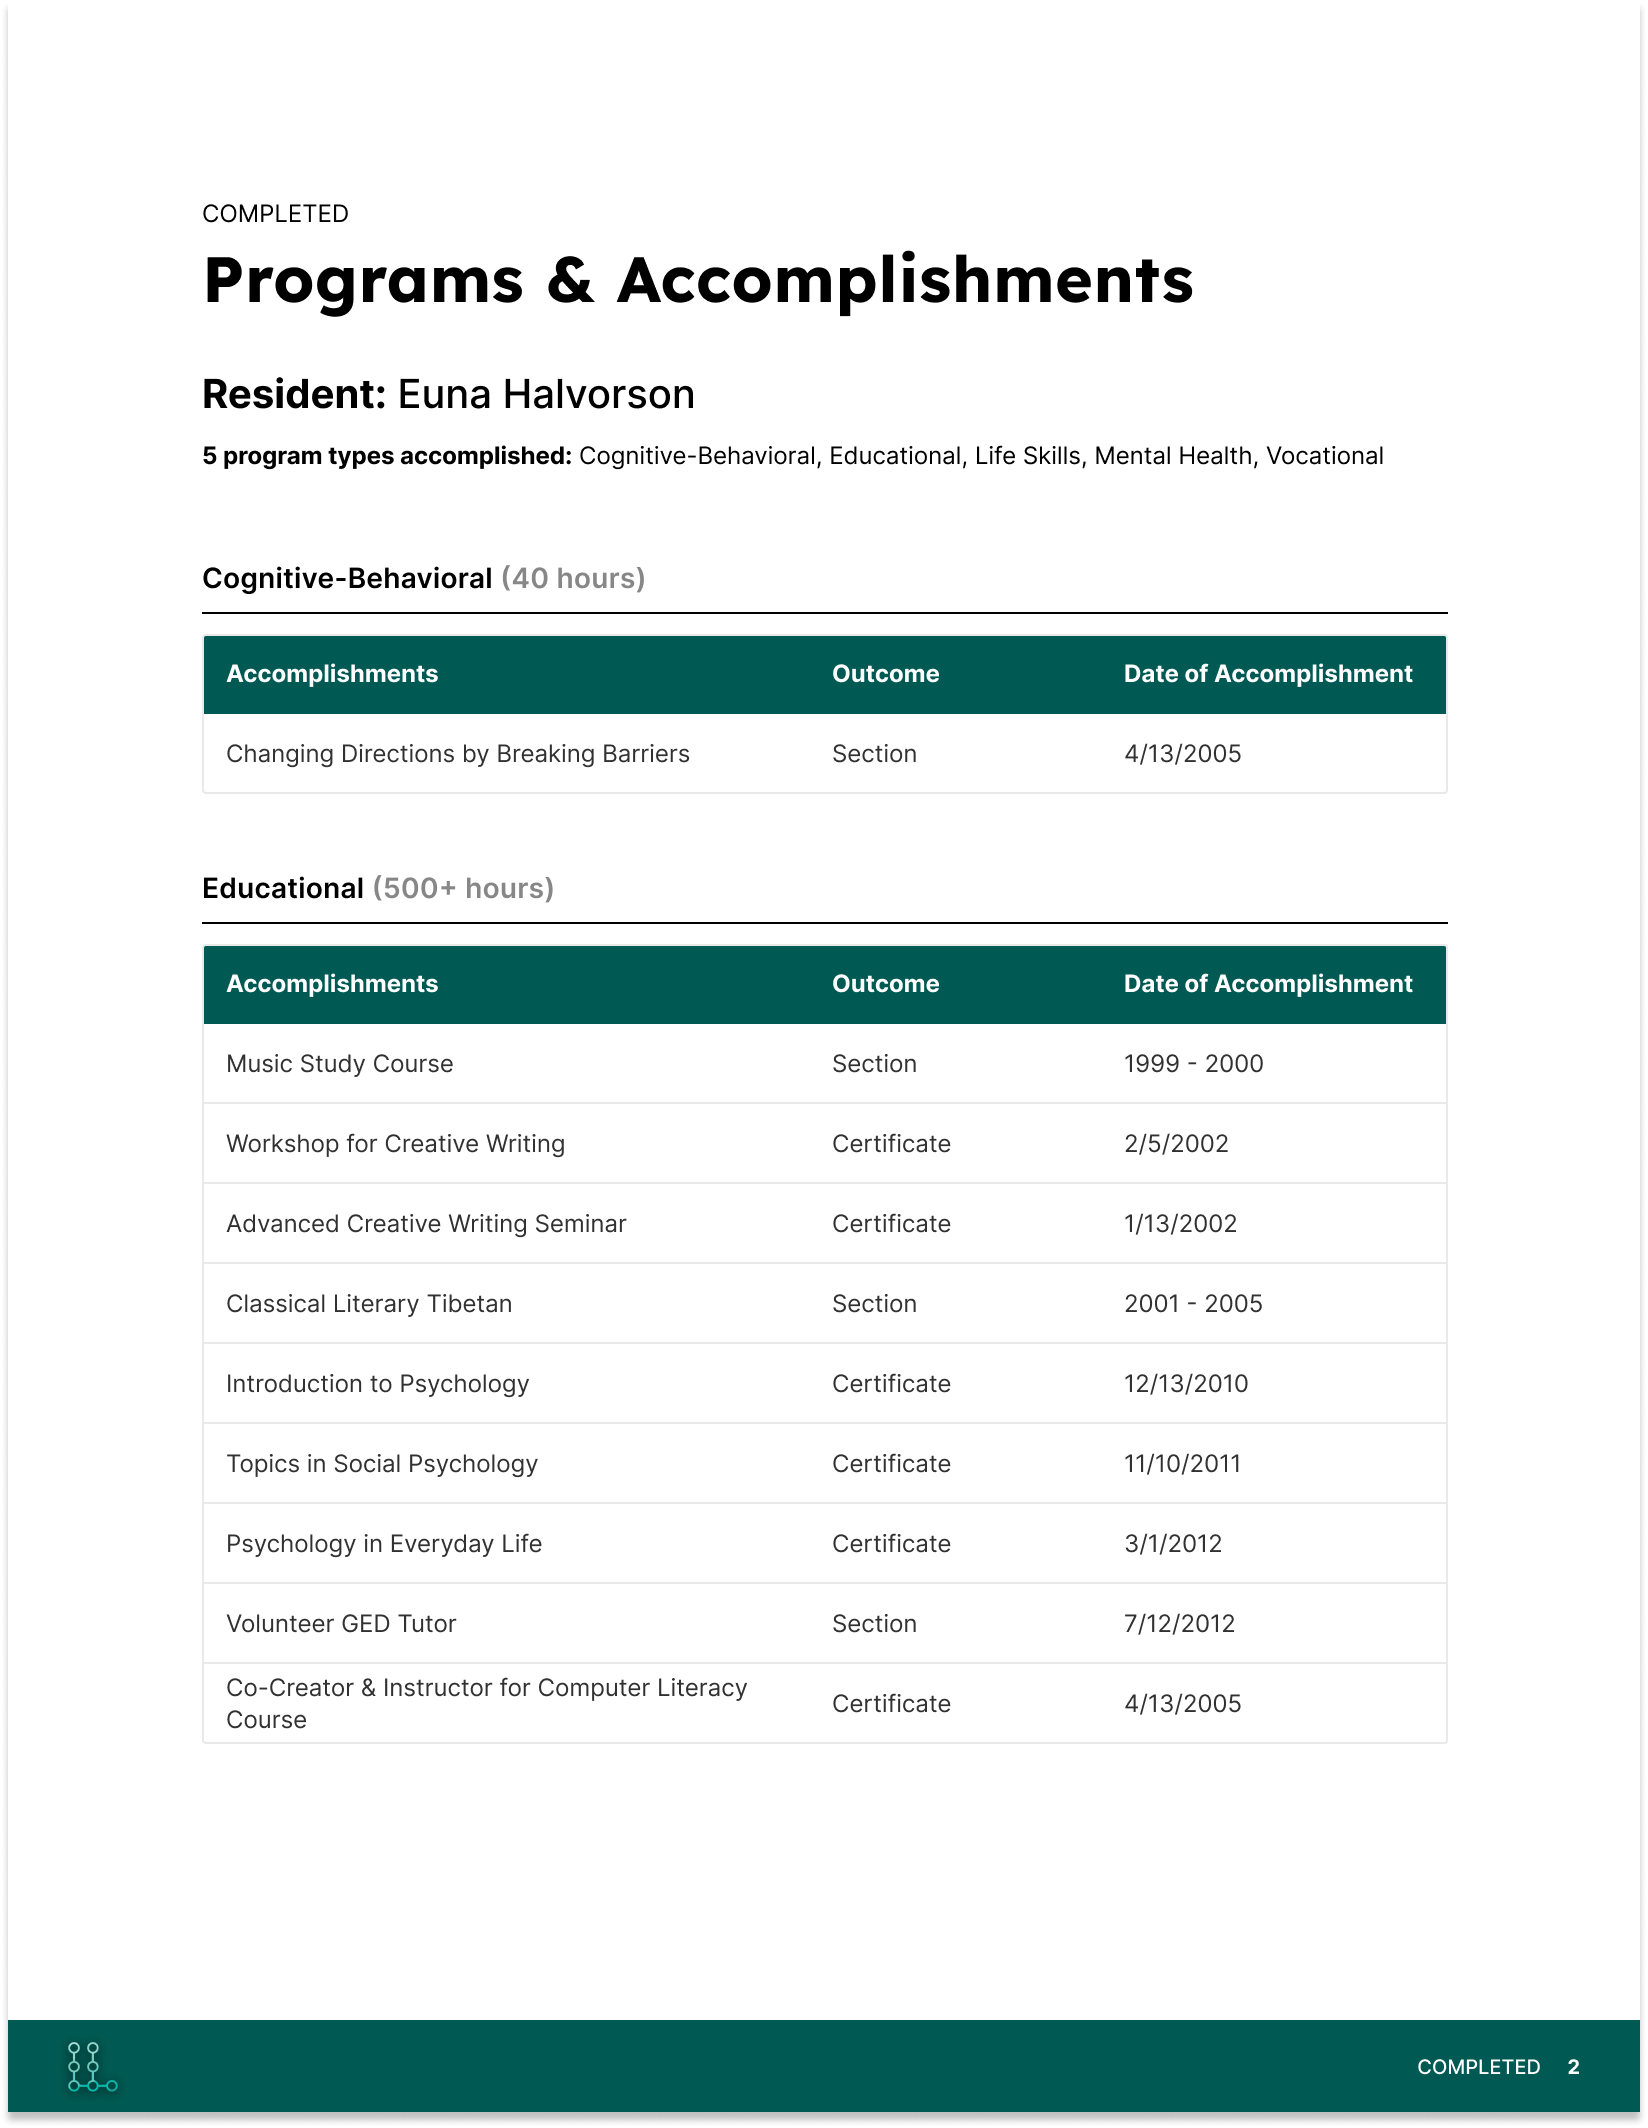
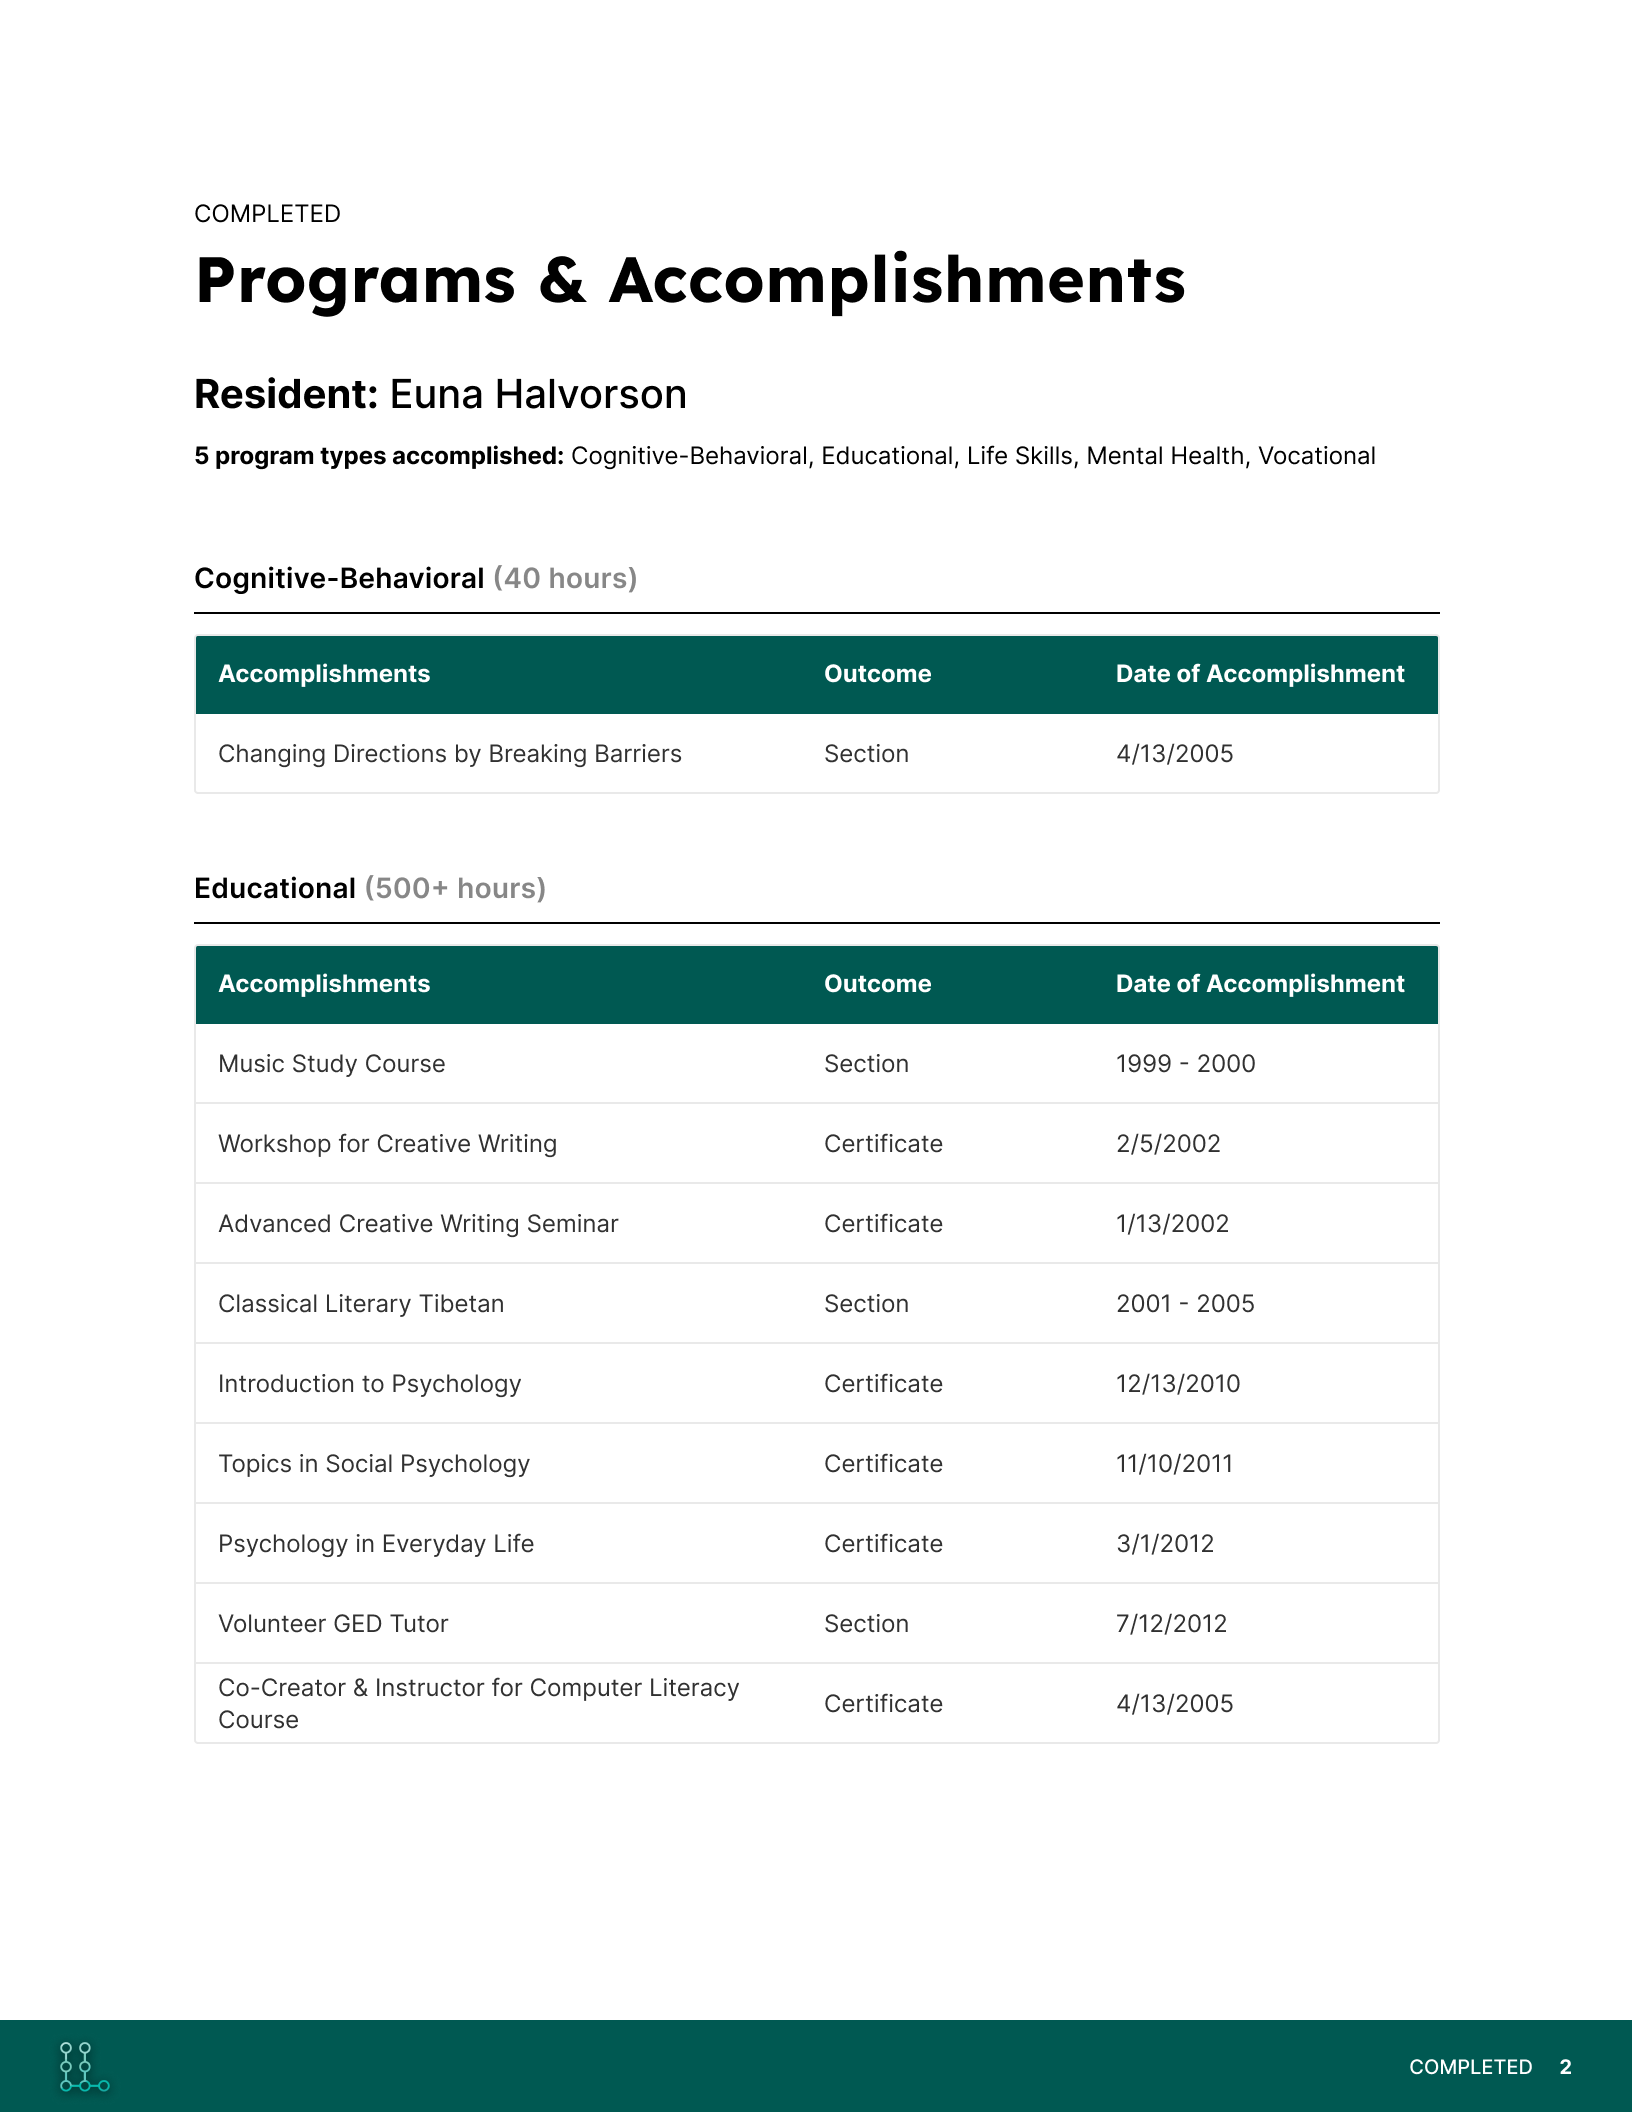
UL project is good to go! besides possible minor adjustments for the future

diff --git a/styles.css b/styles.css
@@ -1161,27 +1161,12 @@ body.archive-modal-open {
   text-align: left;
 }
 
-/* Printable reports: stack images above caption so copy never overlaps */
-#final-solution .custom-container:last-child:not(.platform-preview-container) .custom-container-inner {
-  flex-direction: column;
-  align-items: stretch;
-  gap: var(--media-caption-gap);
-}
-
+/* Printable reports: images and caption side by side (matches dashboard row) */
 #final-solution .custom-container:last-child:not(.platform-preview-container) .custom-container-report-pages {
-  flex: none;
-  align-self: stretch;
-  width: 100%;
-  max-width: 100%;
+  flex: 0 1 auto;
+  width: auto;
+  max-width: 65%;
   margin-right: 0;
-}
-
-#final-solution .custom-container:last-child:not(.platform-preview-container) .custom-container-copy {
-  flex: none;
-  align-self: stretch;
-  width: 100%;
-  max-width: none;
-  align-items: flex-start;
 }
 
 #final-solution .custom-container:not(.platform-preview-container) .custom-container-copy p {
@@ -1201,11 +1186,10 @@ body.archive-modal-open {
   max-height: 280px;
 }
 
-#final-solution .custom-container-report-pages {
+#final-solution .custom-container-report-pages,
+#solution .custom-container-report-pages {
   --report-page-gap: 8px;
-  --report-page-size: min(170px, calc((100% - 2 * var(--report-page-gap)) / 3));
   display: flex;
-  flex: 1 1 auto;
   flex-direction: row;
   flex-wrap: nowrap;
   align-items: flex-end;
@@ -1213,20 +1197,17 @@ body.archive-modal-open {
   min-width: 0;
   max-width: 100%;
   width: 100%;
-  align-self: flex-end;
   overflow: visible;
 }
 
+#final-solution .custom-container-report-pages {
+  --report-page-size: min(200px, calc((100% - 2 * var(--report-page-gap)) / 3));
+  flex: 1 1 auto;
+  align-self: flex-end;
+}
+
 #solution .custom-container-report-pages {
-  --report-page-gap: var(--media-caption-gap);
-  display: flex;
-  flex-direction: column;
-  align-items: stretch;
-  gap: var(--report-page-gap);
-  min-width: 0;
-  width: 100%;
-  max-width: 100%;
-  overflow: visible;
+  --report-page-col: calc((100% - 2 * var(--report-page-gap)) / 3);
 }
 
 #final-solution .custom-container-report-pages .custom-container-image {
@@ -1246,10 +1227,10 @@ body.archive-modal-open {
 }
 
 #solution .custom-container-report-pages .custom-container-image {
-  flex: none;
+  flex: 1 1 0;
   width: 100%;
   min-width: 0;
-  max-width: 100%;
+  max-width: var(--report-page-col);
   height: auto;
   max-height: none;
   display: block;
@@ -1259,6 +1240,8 @@ body.archive-modal-open {
   border: 1px solid var(--image-container-border);
   border-radius: var(--media-caption-radius);
   background: var(--white);
+  object-fit: contain;
+  object-position: bottom center;
 }
 
 /* Global img { max-width: 100% } must not shrink report pages inside flex */
@@ -1270,10 +1253,10 @@ body.archive-modal-open {
 }
 
 .project-main #solution .custom-container-report-pages .custom-container-image {
-  flex: none;
+  flex: 1 1 0;
   width: 100%;
   min-width: 0;
-  max-width: 100%;
+  max-width: var(--report-page-col);
 }
 
 @media (max-width: 980px) {
@@ -1423,6 +1406,9 @@ body.archive-modal-open {
 
 .project-main .platform-preview-grid.platform-preview-grid--five,
 .platform-preview-grid--five {
+  --lo-fi-primary-col-width: calc((100% - 2 * var(--media-caption-gap)) / 3);
+  /* Match tallest primary thumb (~162×134) so row 2 aligns with row 1 */
+  --lo-fi-shared-max-height: calc(var(--lo-fi-primary-col-width) * 134 / 162);
   display: flex;
   flex-direction: column;
   gap: var(--media-caption-gap);
@@ -1460,11 +1446,14 @@ body.archive-modal-open {
 }
 
 .platform-preview-grid--five .platform-preview-grid-row--primary > img {
-  max-width: calc((100% - 2 * var(--media-caption-gap)) / 3);
+  max-width: var(--lo-fi-primary-col-width);
 }
 
 .platform-preview-grid--five .platform-preview-grid-row--secondary > img {
   max-width: calc((100% - var(--media-caption-gap)) / 2);
+  max-height: var(--lo-fi-shared-max-height);
+  object-fit: contain;
+  object-position: center bottom;
 }
 
 .platform-preview-item {
@@ -2216,6 +2205,15 @@ body.archive-modal-open {
   .platform-preview-grid {
     grid-template-columns: 1fr;
     height: fit-content;
+  }
+
+  .design-decision-preview .platform-preview-grid--with-arrow {
+    grid-template-columns: 1fr;
+    justify-items: center;
+  }
+
+  .design-decision-preview .platform-preview-arrow img {
+    transform: rotate(90deg);
   }
 
   .platform-preview-grid--five .platform-preview-grid-row--secondary {

diff --git a/project.html b/project.html
@@ -341,9 +341,8 @@
             <section class="project-section content-section process-group" id="findings">
               <div class="process-entry">
                 <div class="subtitle">Results</div>
-                <h2>Residents struggle to track scattered program records, with no clear system linking participation 
-                  to criminogenic needs or parole milestones, and early solutions like UnlockEd remain limited.</h2>
-                <p>Add a short outcome sentence here before you drop in more supporting details.</p>
+                <h2>No unified system connects program participation to criminogenic needs or parole milestones, and early solutions like UnlockEd remain limited.</h2>
+                <p>Residents struggle to track scattered program records, with no clear system linking participation to criminogenic needs or parole milestones, and early solutions like UnlockEd remain limited.</p>
                 <div class="three-up">
                   <div>
                     <div class="image-frame"><img src="assets/project-specific/unlocked labs/what's the point.jpg" alt="Notes questioning the point of scattered program participation" /></div>
@@ -621,7 +620,7 @@
                     <p class="platform-preview-title">
                       Users can now see a breakdown of the hours put towards program type (right).
                     </p>
-                    <div class="platform-preview-grid">
+                    <div class="platform-preview-grid platform-preview-grid--with-arrow">
                       <figure class="platform-preview-item">
                         <div class="platform-preview-frame">
                           <img
@@ -630,6 +629,9 @@
                           />
                         </div>
                       </figure>
+                      <div class="platform-preview-arrow" aria-hidden="true">
+                        <img src="assets/icons/Arrow right.svg" alt="" />
+                      </div>
                       <figure class="platform-preview-item">
                         <div class="platform-preview-frame">
                           <img

diff --git a/projects/wscuc.html b/projects/wscuc.html
@@ -89,7 +89,7 @@
             </section>
 
             <div class="image-frame hero-image">
-              <img src="../assets/images/WSCUC Preview.png" alt="UC Berkeley WSCUC accreditation report preview" />
+              <img src="../assets/images/WSCUC Preview - Project Page.png" alt="UC Berkeley WSCUC accreditation report preview" />
             </div>
 
             <section class="project-section content-section" id="overview">
@@ -109,8 +109,8 @@
                 I contributed to a successful reaccreditation of UC Berkeley, following an on-site visit where this report was presented to faculty, staff, students, and WSCUC committee members.
               </h2>
               <p>
-                You can view the full report and related materials on
-                <a href="https://ue.berkeley.edu/projects-initiatives/institutional-accreditation/2024-accreditation-review" target="_blank" rel="noopener noreferrer">UC Berkeley Undergraduate Education's 2024 accreditation review page</a>.
+                You can view the full report
+                <a href="https://drive.google.com/file/d/1NARvBx_vSM8_0IsFxhf_PcEdFiRQbJZ7/view" target="_blank" rel="noopener noreferrer">here</a>.
               </p>
             </section>
 

diff --git a/project-page.css b/project-page.css
@@ -176,6 +176,11 @@
   color: var(--blue);
 }
 
+.project-main p a {
+  color: var(--blue);
+  text-decoration: underline;
+}
+
 .project-main .project-section .subtitle,
 .project-main .project-hero .project-summary .subtitle,
 .project-main .reflection-row-label.subtitle {
@@ -350,6 +355,28 @@
 
 .project-main .design-decision-preview .platform-preview-grid {
   align-items: center;
+}
+
+.project-main .design-decision-preview .platform-preview-grid--with-arrow {
+  grid-template-columns: minmax(0, 1fr) auto minmax(0, 1fr);
+  align-items: center;
+}
+
+.project-main .design-decision-preview .platform-preview-arrow {
+  display: flex;
+  align-items: center;
+  justify-content: center;
+  flex-shrink: 0;
+  width: auto;
+  max-width: none;
+  padding: 0 4px;
+}
+
+.project-main .design-decision-preview .platform-preview-arrow img {
+  width: 28px;
+  height: 28px;
+  max-width: none;
+  filter: brightness(0) saturate(100%) invert(64%);
 }
 
 .project-main .design-decision-preview .platform-preview-item {
